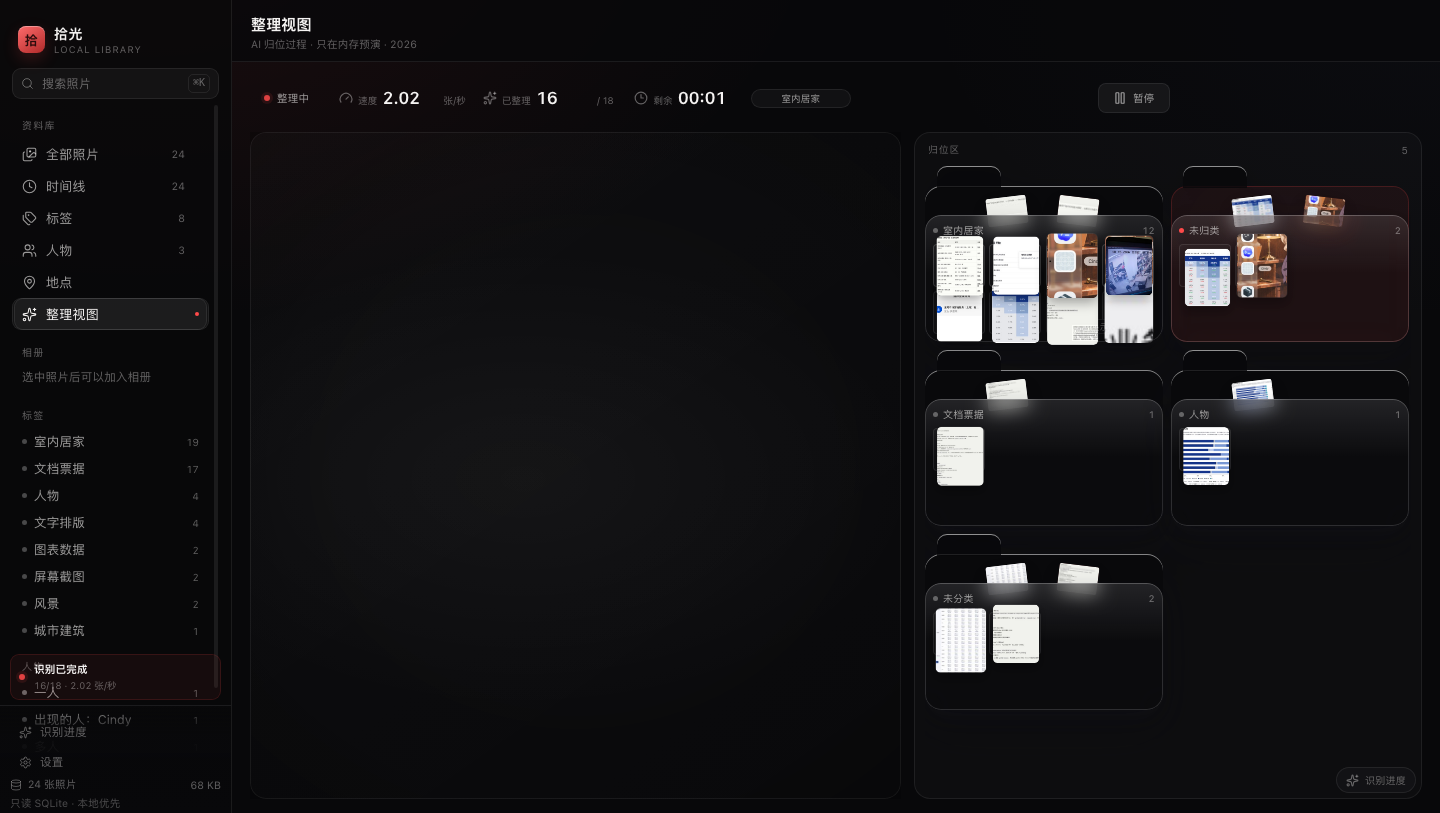
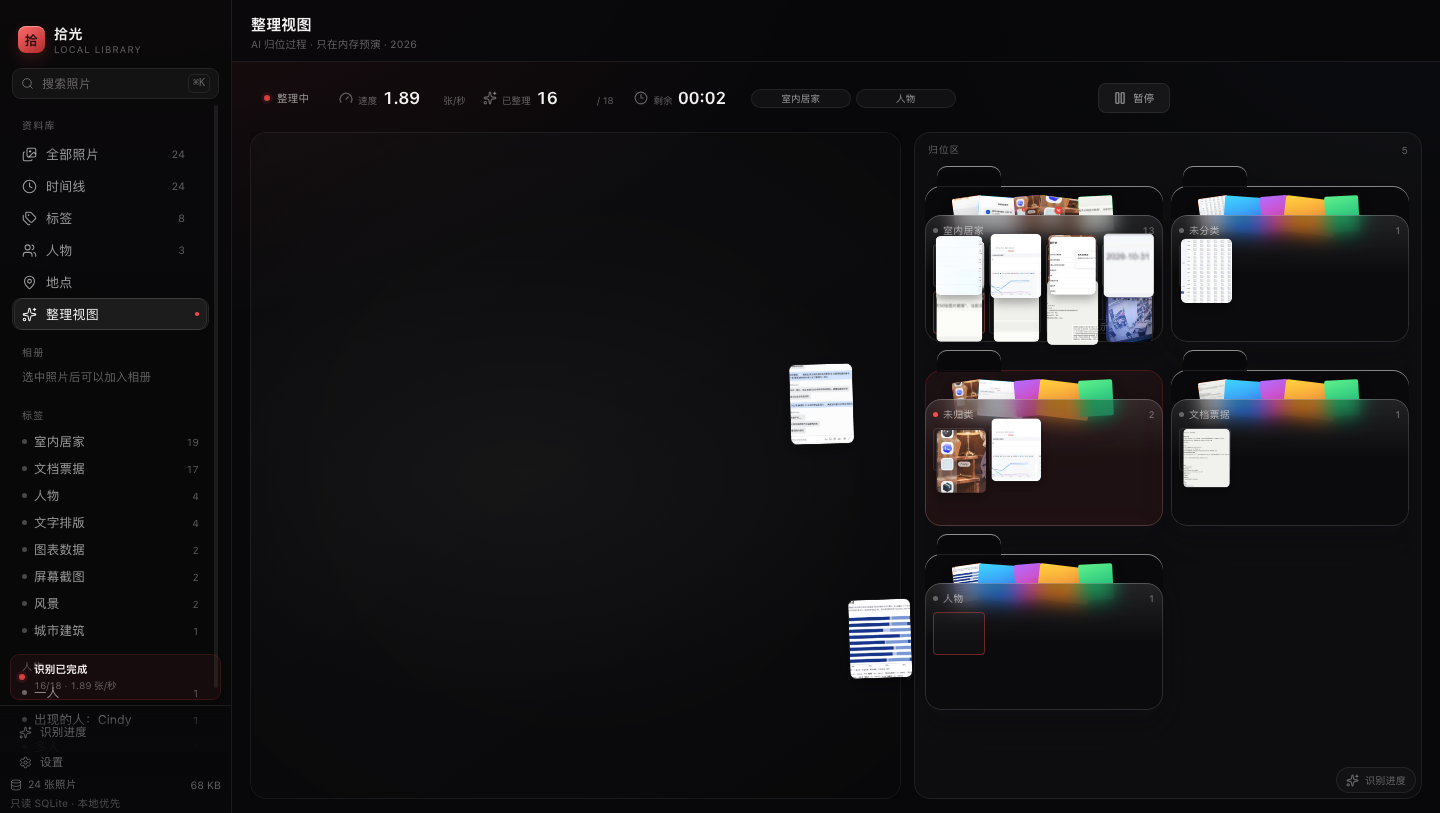
feat(ui): 分组文件边补到 5 条并按旋转角补偿 top（照 240310f 参考）

diff --git a/desktop/src/components/OrganizeView.tsx b/desktop/src/components/OrganizeView.tsx
@@ -60,6 +60,18 @@ type Props = {
 
 const MAX_FLIGHTS = 3;
 const MAX_SLOTS = 8;
+/**
+ * 五条文件边：宽度/角度照 glass-folders 的 Archives（30/46/28/52/34，-8…+7°）。
+ * top 已按各自旋转角补偿——旋转后的包围盒会比元素本身高，不补偿的话露出高度会参差。
+ * 面板不整体旋转，所以这里不需要再补容器角度。
+ */
+const SHEET_GEOMETRY = [
+  { w: 30, left: 29, top: 31.3, rot: -8 },
+  { w: 46, left: 53, top: 30.7, rot: 4 },
+  { w: 28, left: 90, top: 30.4, rot: -5 },
+  { w: 52, left: 113, top: 32.4, rot: 7 },
+  { w: 34, left: 154, top: 30.0, rot: -3 },
+];
 const FLIGHT_MS = 620;
 
 function hash(value: string): number {
@@ -676,15 +688,25 @@ export function OrganizeView({ live, assets, onViewAlbum, onOpenRecognition, onT
                   <section className={clsx("group-panel", group.name === "未归类" && "failed")} key={group.name}>
                     <span className="group-tab" aria-hidden="true" />
                     <span className="group-sheets" aria-hidden="true">
-                      {group.cards.slice(0, 2).map((card, index) => (
-                        <i
-                          className="group-sheet"
-                          key={card.id}
-                          style={{ "--r": index === 0 ? "-7deg" : "7deg" } as CSSProperties}
-                        >
-                          {card.asset ? <img src={assetSrc(card.asset.thumb)} alt="" loading="lazy" /> : null}
-                        </i>
-                      ))}
+                      {SHEET_GEOMETRY.map((sheet, index) => {
+                        const card = group.cards[index];
+                        return (
+                          <i
+                            className={"group-sheet sheet-tone-" + index}
+                            key={index}
+                            style={{
+                              width: sheet.w,
+                              left: sheet.left,
+                              top: sheet.top,
+                              transform: "rotate(" + sheet.rot + "deg)",
+                            } as CSSProperties}
+                          >
+                            {card?.asset ? (
+                              <img src={assetSrc(card.asset.thumb)} alt="" loading="lazy" />
+                            ) : null}
+                          </i>
+                        );
+                      })}
                     </span>
                     <div className="group-front glass-surface on-color">
                     <header>

diff --git a/desktop/src/styles.css b/desktop/src/styles.css
@@ -799,16 +799,20 @@ button:focus-visible, input:focus-visible {
   box-shadow: inset 0 1px 0 rgba(255, 255, 255, .55), inset 0 -1px 0 rgba(16, 16, 20, .06);
 }
 .group-sheets { position: absolute; inset: 0; pointer-events: none; }
+/* 五条文件边：位置/宽度/角度由组件按参考值给出（含旋转补偿），这里只管材质 */
 .group-sheet {
-  position: absolute; top: 31px; width: 40px; height: 28px;
-  border-radius: 2px; overflow: hidden;
-  transform: rotate(var(--r, -7deg));
+  position: absolute;
+  height: 36px; border-radius: 2px; overflow: hidden;
   background: #fff;
   box-shadow: 0 8px 18px rgba(16, 16, 20, .10);
 }
-.group-sheet:nth-child(1) { left: 26%; }
-.group-sheet:nth-child(2) { left: 56%; background: var(--accent-soft); }
 .group-sheet img { width: 100%; height: 100%; object-fit: cover; display: block; }
+/* 组里照片不足 5 张时用参考色补位，保证始终是 5 条边 */
+.group-sheet.sheet-tone-0 { background: linear-gradient(160deg, #ff8a3d, #ff3d6e); }
+.group-sheet.sheet-tone-1 { background: linear-gradient(160deg, #3dd6ff, #3d6bff); }
+.group-sheet.sheet-tone-2 { background: linear-gradient(160deg, #b06bff, #ff3d9e); }
+.group-sheet.sheet-tone-3 { background: linear-gradient(160deg, #ffd23d, #ff7a3d); }
+.group-sheet.sheet-tone-4 { background: linear-gradient(160deg, #5ef08a, #12b981); }
 .group-rail .group-panel .group-front {
   position: absolute; left: 0; right: 0; bottom: 0; height: 72%;
   border-radius: 16px; padding: 8px; overflow: hidden;

diff --git a/desktop/docs/PERF.md b/desktop/docs/PERF.md
@@ -282,8 +282,11 @@ python3 scripts/bench_ui_dev.py --home /tmp/sg-bench-10w --out /tmp/bench-main.j
 | 分类卡前板尺寸 | 205×37 | 205×37 |
 | 前板落在父容器内 | 是 | 是 |
 | 整理面板尺寸 | 238×176 | 238×176 |
-| sheets 顶端与 front 顶边差 | **20.6px** | **20.6px** |
-| 面板直接子元素越界 | 0 | 0 |
+| 五条边的露出高度 | **19.9 / 20.2 / 20.0 / 19.9 / 20.1px** | 同左 |
+| sheets 越出面板 | 0 | 0 |
+| 前板上沿玻璃带 maxSpread | — | **4**（阈值 10） |
+
+五条边的宽度/角度照参考的 Archives：30/46/28/52/34px，-8/+4/-5/+7/-3°；每条 `top` 按自身旋转角补偿（旋转后包围盒比元素高，不补会从 19.4 到 20.1 参差）。面板本身不旋转，所以不需要再补容器角。
 
 ### 材质（computed style）
 
@@ -298,10 +301,12 @@ python3 scripts/bench_ui_dev.py --home /tmp/sg-bench-10w --out /tmp/bench-main.j
 
 | 主题 | 场景 | fps | 最长帧 | >20ms |
 | --- | --- | ---: | ---: | ---: |
-| 暗色 | 整理 | 60.09 | 16.8ms | 0 |
-| 暗色 | 详情 | 60.44 / 60.33 / 60.23 / 60.41 | 16.8ms（1 次 33.3ms） | 0/0/1/0 |
-| 亮色 | 整理 | 60.17 / 59.86 / 60.21 | 16.8ms（1 次 33.2ms） | 0/1/0 |
-| 亮色 | 详情 | 60.45 / 60.34 / 60.29 / 60.31 | 16.8ms | 0 |
+| 暗色 | 整理 | 60.09 / 60.04 / 60.16 | 16.8ms | 0 / 0 / 0 |
+| 暗色 | 详情 | 60.44 / 60.33 / 60.23 / 60.41 / 59.49 / 59.56 | 16.8ms（个别轮 33.3 / 50ms） | 0/0/1/0/2/2 |
+| 亮色 | 整理 | 60.17 / 59.86 / 60.21 / 59.97 | 16.8ms（个别轮 33.2ms） | 0/1/0/1 |
+| 亮色 | 详情 | 60.45 / 60.34 / 60.29 / 60.31 / 59.81 | 16.8ms（个别轮 50.1ms） | 0/0/0/0/1 |
+
+采样期间机器负载 4.0 左右（还有别的进程在跑），后两轮的 50ms 与文档里记的「详情首开 49.9ms」是同一现象：只出现在双击打开那一瞬间，之后全部 16.8ms。
 
 结论：全部 ≥59.78fps；偶发的单帧 33ms 只出现在「场景首次打开」那一帧（详情首开、整理点开始后首帧），
 与本文档已有的「详情首开偶发掉帧」是同一签名（约 1/4 概率、1 帧、之后恢复 16.8ms），不是持续掉帧。
